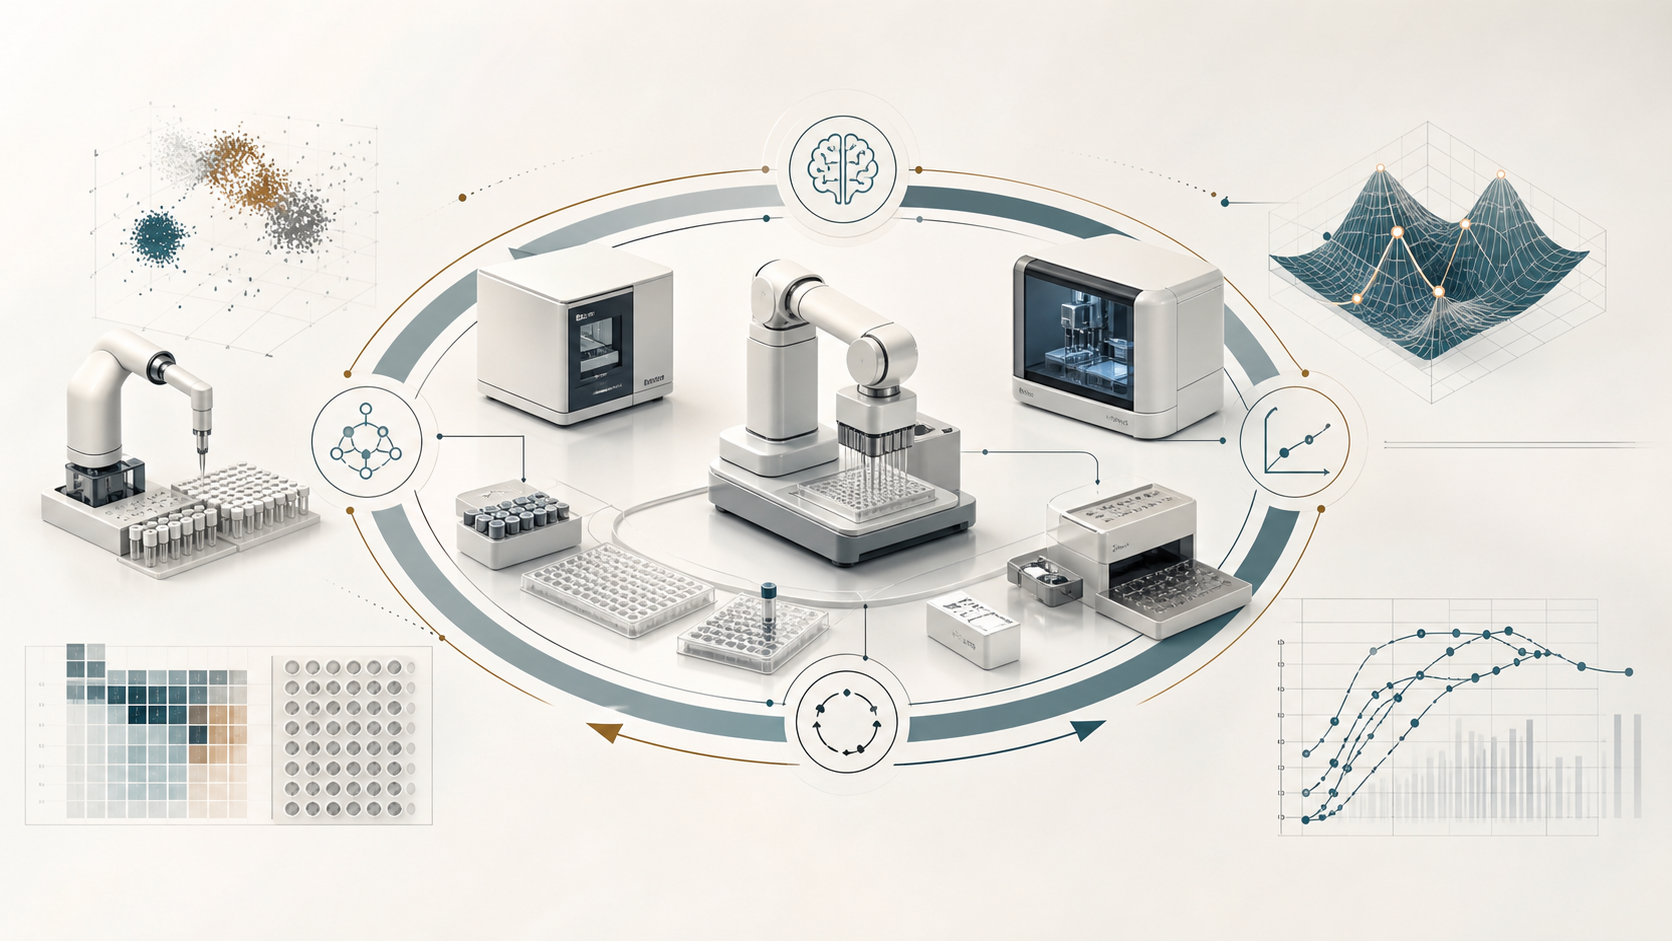
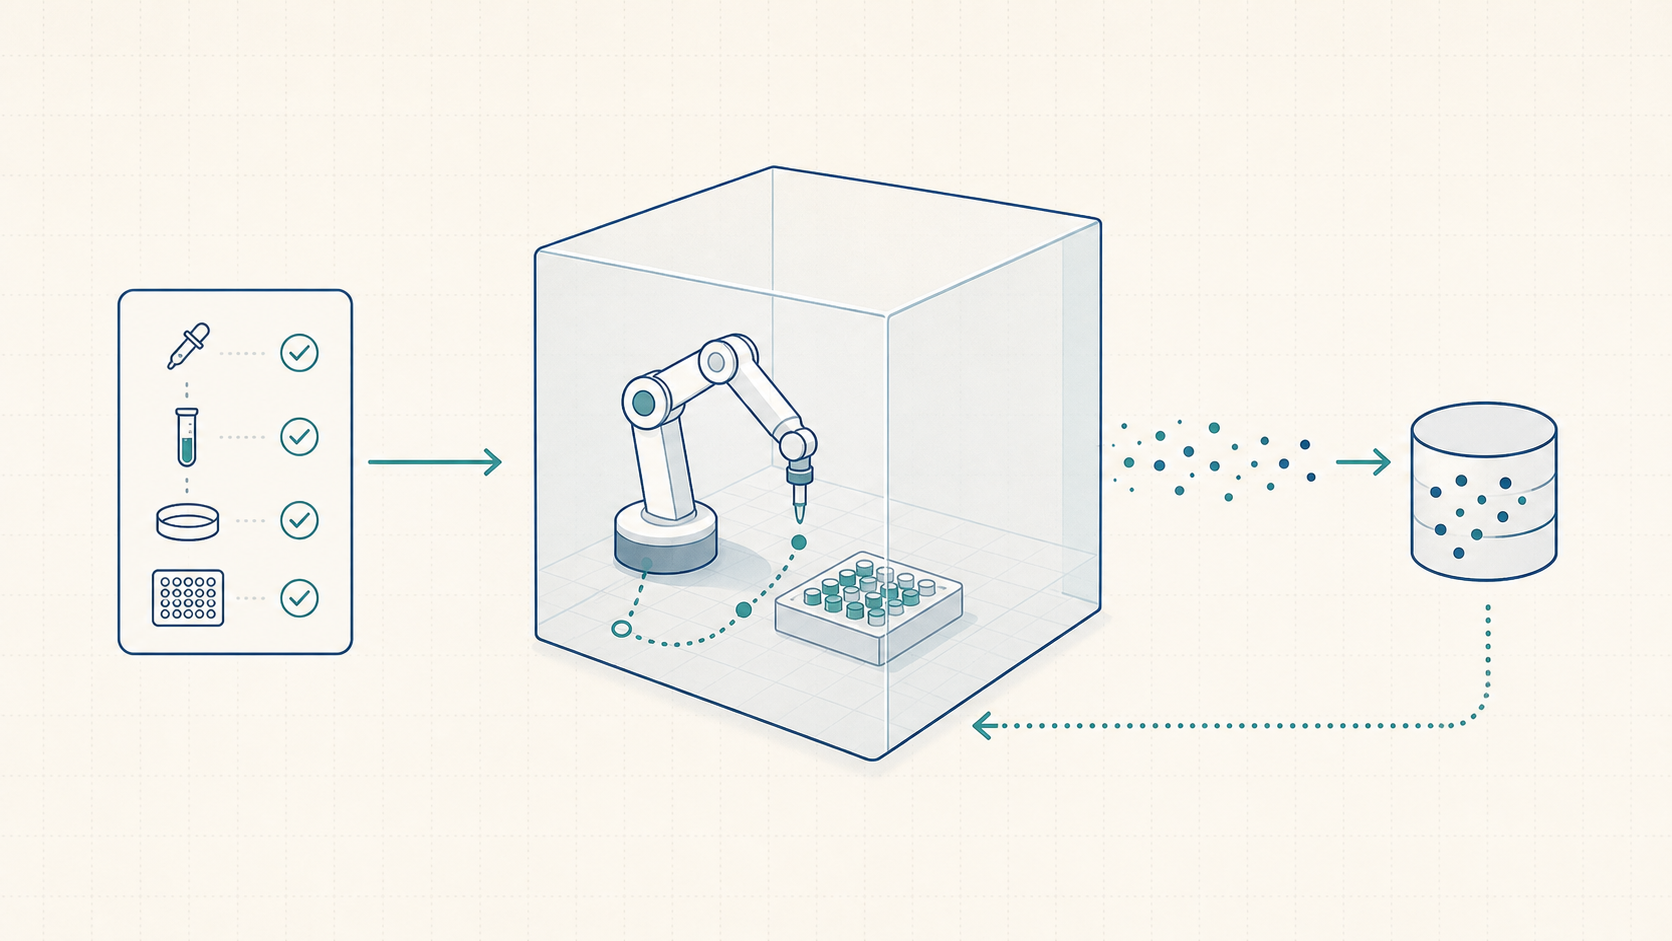
Refine project overviews and template images

diff --git a/backend/prisma/seed.ts b/backend/prisma/seed.ts
@@ -10,10 +10,10 @@ const xiaoluoTimeline = {
       year: "2025",
       title: "AI4MATH",
       shortTitle: "AI4MATH",
-      subtitle: "Mathematical reasoning",
+      subtitle: "Verifiable problems",
       accent: "blue",
       description:
-        "Develop AI systems that combine language-model reasoning, formal verification, and problem decomposition for reliable mathematical discovery.",
+        "Systematically find low-hanging fruit in mathematics: valuable problems that are computable, formalizable, and easy to verify.",
     },
     {
       id: "neuro-symbolic-2025",
@@ -30,10 +30,10 @@ const xiaoluoTimeline = {
       year: "2026",
       title: "AutoResearch",
       shortTitle: "AutoResearch",
-      subtitle: "Research automation",
+      subtitle: "Verifiable outcomes",
       accent: "gold",
       description:
-        "Build closed-loop research agents that move from literature reading and hypothesis generation to experiment planning, evaluation, and revision.",
+        "Discover verifiable research outcomes, prioritize work with clear return value, and feed verified data back into project strategy and model training.",
     },
   ],
   works: [
@@ -45,7 +45,7 @@ const xiaoluoTimeline = {
       venue: "Research Idea",
       type: "Theme",
       summary:
-        "Use LLM agents, formal tools, and symbolic feedback to make mathematical reasoning more verifiable instead of only fluent. The focus is on proof search, theorem formalization, and multi-step problem solving pipelines that expose intermediate reasoning states.",
+        "Search for low-hanging fruit in mathematics: problems that are valuable, computable, and easy to verify. The direction emphasizes formalizable tasks, automatically checked answers, new verified datasets, iterative model improvement, and human-AI collaboration around problem selection and failure analysis.",
       image: "/images/project-templates/auto-math-scientific.png",
       tags: ["AI4MATH", "Formal Reasoning", "Proof Systems"],
     },
@@ -69,7 +69,7 @@ const xiaoluoTimeline = {
       venue: "Research Idea",
       type: "Theme",
       summary:
-        "Design automated research workflows that can read papers, form hypotheses, design experiments, inspect results, and revise assumptions. The emphasis is on rigorous evaluation loops rather than one-shot content generation.",
+        "Design research workflows that prioritize verifiable outcomes and measurable return value. The direction studies token-economics for research: allocate compute and human attention toward ideas that can be checked, rewarded, converted into training data, and used to produce stronger hypotheses and viewpoints.",
       image: "/images/project-templates/auto-research-scientific.png",
       tags: ["AutoResearch", "AI4SCI", "Research Agents"],
     },
@@ -122,7 +122,7 @@ async function main() {
           bioShort:
             "Researcher building automated research systems for AI4MATH, AI4SCI, and neuro-symbolic reasoning.",
           backgroundBrief:
-            "XiaoLuo Zhang studies how AI systems can help researchers move from literature and hypotheses to verifiable reasoning, controlled experiments, and reproducible scientific workflows. His current direction emphasizes AutoResearch as a rigorous loop rather than a one-shot generation tool.",
+            "XiaoLuo Zhang studies how AI systems can discover verifiable mathematical and scientific opportunities, turn results into useful training data, and support human-AI collaboration. His current direction emphasizes low-hanging-fruit discovery, token-economics for research prioritization, and closed-loop improvement rather than one-shot generation.",
           location: "Remote / Hybrid",
           contactEmail: "[email redacted]",
           researchAreas: ["AI4MATH", "AI4SCI", "Neuro-Symbolic AI", "AutoResearch"],
@@ -144,13 +144,13 @@ async function main() {
       ownerUserId: xiaoluo.id,
       title: "AutoResearch",
       description:
-        "AutoResearch explores a closed-loop academic research agent that links paper reading, hypothesis generation, experiment design, result inspection, and revision. The project focuses on scientific reliability: every step should leave an auditable trace, use explicit evaluation criteria, and support human researchers in deciding which hypotheses are worth pursuing.",
-      researchArea: "AutoResearch / AI4SCI",
+        "AutoResearch explores how to systematically discover verifiable research outcomes instead of only generating more text. The project prioritizes directions where progress can be checked, rewarded, and converted into useful training data. It studies a token-economics view of research: spend compute and human attention first on work with clear return value, use verified outputs to feed back into project design and model training, and develop methods for proposing more numerous and higher-quality viewpoints, hypotheses, and research angles.",
+      researchArea: "AutoResearch / Verifiable Research",
       startTime: "2026 Spring",
       endTime: "Ongoing",
       location: "Remote / Hybrid",
       requirements:
-        "Useful backgrounds include LLM agents, information retrieval, scientific computing, evaluation design, or research workflow tooling. Collaborators should be comfortable reading papers and turning vague research questions into testable system components.",
+        "Useful backgrounds include LLM agents, information retrieval, scientific evaluation, research strategy, incentive design, data flywheels, or hypothesis generation. Collaborators should care about whether an idea can be verified, whether it has return value, and how verified outcomes can improve the next research cycle.",
       illustrationUrl: "/images/project-templates/auto-research-scientific.png",
       capacity: 6,
       status: "OPEN",
@@ -162,13 +162,13 @@ async function main() {
       ownerUserId: xiaoluo.id,
       title: "AutoExperiment",
       description:
-        "AutoExperiment studies how research agents can plan, run, and evaluate experiments with minimal manual friction. The goal is not to replace scientific judgment, but to make experiment loops more reproducible: define variables, select baselines, run checks, compare outcomes, and document failures in a structured way.",
-      researchArea: "AI4SCI / Experiment Automation",
+        "AutoExperiment explores how simulation and embodied intelligence can automatically complete experiments for education and research. The project focuses on building simulation environments, defining protocol standards, training embodied agents, sampling interaction data, and closing the loop between simulated trial outcomes and improved experimental policies. The goal is to make agents understand what to manipulate, what to measure, how to log state transitions, and how to turn simulated practice into reusable educational or research workflows.",
+      researchArea: "Embodied AI / Experiment Simulation",
       startTime: "2026 Spring",
       endTime: "Ongoing",
       location: "Remote / Hybrid",
       requirements:
-        "Best suited for students interested in scientific machine learning, experiment orchestration, benchmark design, lab automation concepts, or data-driven evaluation. Practical engineering ability and careful logging habits are important.",
+        "Helpful backgrounds include robotics simulation, embodied AI, reinforcement learning, protocol design, education technology, data collection, or scientific workflow engineering. Practical engineering ability and careful experiment logging are important.",
       illustrationUrl: "/images/project-templates/auto-experiment-scientific.png",
       capacity: 5,
       status: "OPEN",
@@ -180,13 +180,13 @@ async function main() {
       ownerUserId: xiaoluo.id,
       title: "AutoMath",
       description:
-        "AutoMath focuses on verifiable mathematical reasoning with language models, symbolic tools, and proof-oriented feedback. The project investigates how agents can decompose problems, call formal or semi-formal checkers, recover from invalid steps, and produce reasoning traces that are useful to mathematicians rather than merely plausible.",
-      researchArea: "AI4MATH / Neuro-Symbolic AI",
+        "AutoMath is designed to systematically search for low-hanging fruit in mathematics: problems that are valuable, computable, and easy to verify, such as verifiable computational math problems or mathematical questions that can be formalized. The project treats verification as the organizing principle. Agents propose candidate problems, solve or formalize them, collect new verified data, and use that data to iteratively improve the training and evaluation of reasoning models. A continuing theme is human-AI collaboration: researchers steer problem selection, inspect failures, and decide which verified artifacts should become datasets, benchmarks, or training signals.",
+      researchArea: "AI4MATH / Verifiable Reasoning",
       startTime: "2026 Spring",
       endTime: "Ongoing",
       location: "Remote / Hybrid",
       requirements:
-        "Helpful preparation includes discrete math, theorem proving, symbolic reasoning, algorithms, LLM tooling, or strong mathematical problem solving. Interest in rigorous failure analysis is more important than having every tool already mastered.",
+        "Helpful preparation includes mathematical problem solving, formal methods, theorem proving, symbolic reasoning, algorithms, LLM training and evaluation, or human-AI workflow design. Collaborators should be willing to analyze which problems are genuinely easy to verify and high-value.",
       illustrationUrl: "/images/project-templates/auto-math-scientific.png",
       capacity: 6,
       status: "OPEN",

diff --git a/backend/prisma/__tests__/seed.test.ts b/backend/prisma/__tests__/seed.test.ts
@@ -3,6 +3,16 @@ import { PrismaClient } from "@prisma/client";
 describe("Seed Data Shape", () => {
   let prisma: PrismaClient;
 
+  const cleanupSeedFixtures = async () => {
+    await prisma.user.deleteMany({
+      where: {
+        email: {
+          contains: "test-seed",
+        },
+      },
+    });
+  };
+
   beforeAll(() => {
     prisma = new PrismaClient();
   });
@@ -12,13 +22,11 @@ describe("Seed Data Shape", () => {
   });
 
   beforeEach(async () => {
-    await prisma.user.deleteMany({
-      where: {
-        email: {
-          contains: "test-seed",
-        },
-      },
-    });
+    await cleanupSeedFixtures();
+  });
+
+  afterEach(async () => {
+    await cleanupSeedFixtures();
   });
 
   it("creates a unified user with profile, projects, saved projects, and applications", async () => {
@@ -28,7 +36,7 @@ describe("Seed Data Shape", () => {
         passwordHash: "hash",
         profile: {
           create: {
-            displayName: "Seed Owner",
+            displayName: "__seed_fixture_owner__",
             aiHardWeight: 60,
             aiFitWeight: 40,
           },
@@ -42,7 +50,7 @@ describe("Seed Data Shape", () => {
         passwordHash: "hash",
         profile: {
           create: {
-            displayName: "Seed Applicant",
+            displayName: "__seed_fixture_applicant__",
             education: "PhD",
           },
         },
@@ -52,8 +60,8 @@ describe("Seed Data Shape", () => {
     const project = await prisma.project.create({
       data: {
         ownerUserId: owner.id,
-        title: "Seed Project",
-        description: "Seed project description.",
+        title: "__seed_fixture_project__",
+        description: "Seed fixture project description.",
         researchArea: "NLP",
         startTime: "2026-09",
         capacity: 2,